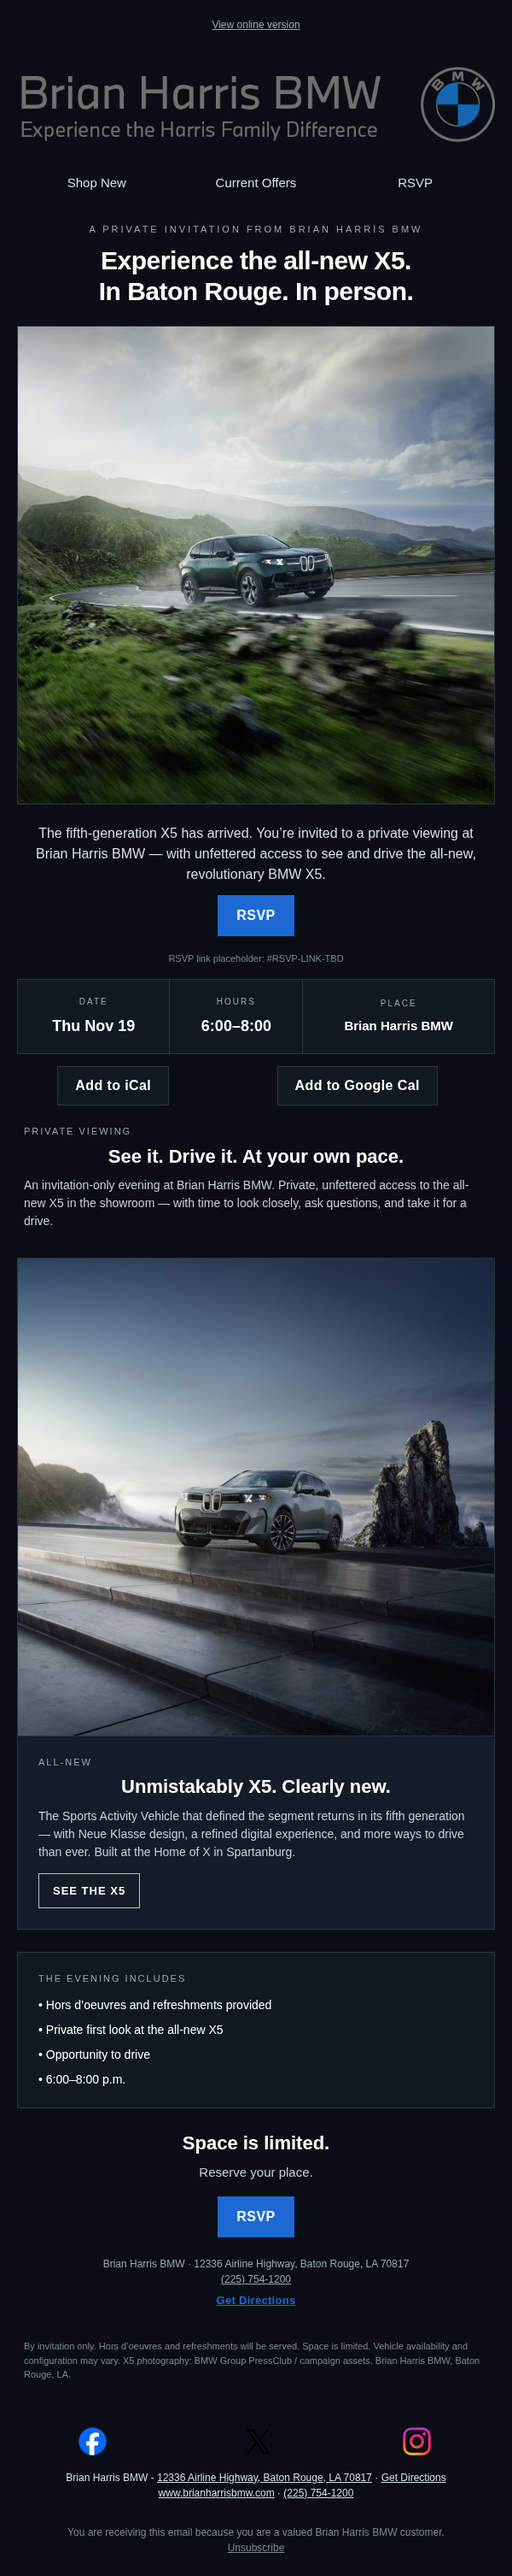
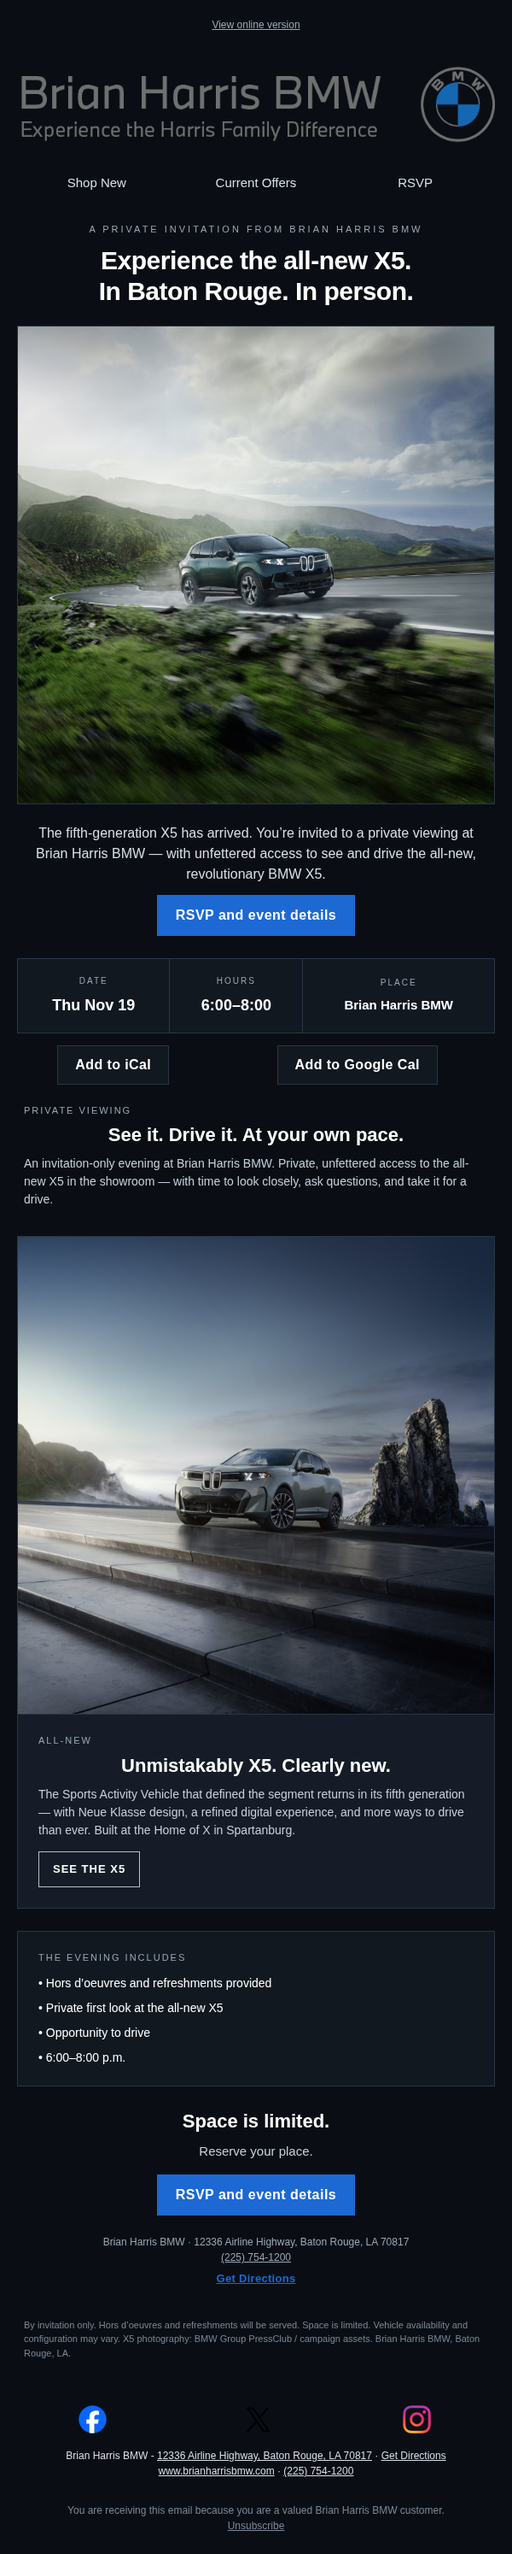
BHBMW: wire X5 private event invite into email + Issue 03
Point invite CTAs at brianharrisbmw.com/x5-private-event (pending
Web ship). Add private-event blocks to Nov sales email and Ultimate
Driver Issue 03. Offers/disclaimers unchanged. BMWJ untouched.

diff --git a/emails/november-2026/bh-bmw-x5-private-showing-invite.html b/emails/november-2026/bh-bmw-x5-private-showing-invite.html
@@ -83,8 +83,8 @@ span.MsoHyperlink, span.MsoHyperlinkFollowed { color:inherit; mso-style-priority
 <a target="_blank" href="https://brianharrisbmw.com/new-bmw-specials2" style="mso-line-height-rule:exactly;text-decoration:none;font-family:helvetica, 'helvetica neue', arial, verdana, sans-serif;display:block;color:#d7dee8;font-size:15px;">Current Offers</a>
 </td>
 <td align="center" valign="top" width="33.33%" style="Margin:0;border:0;padding:12px 5px;">
-<!-- PLACEHOLDER: replace #RSVP-LINK-TBD when Lance builds the RSVP form on brianharrisbmw.com -->
-<a target="_blank" href="#RSVP-LINK-TBD" style="mso-line-height-rule:exactly;text-decoration:none;font-family:helvetica, 'helvetica neue', arial, verdana, sans-serif;display:block;color:#d7dee8;font-size:15px;">RSVP</a>
+<!-- PENDING: event page URL awaiting Web confirm. Live host brianharrisbmw.com; path /x5-private-event currently 404 until Web ships. -->
+<a target="_blank" href="https://brianharrisbmw.com/x5-private-event?utm_source=email&utm_medium=email&utm_campaign=x5-private-event-nov-2026&utm_content=invite" style="mso-line-height-rule:exactly;text-decoration:none;font-family:helvetica, 'helvetica neue', arial, verdana, sans-serif;display:block;color:#d7dee8;font-size:15px;">RSVP</a>
 </td>
 </tr>
 </table>
@@ -128,13 +128,10 @@ span.MsoHyperlink, span.MsoHyperlinkFollowed { color:inherit; mso-style-priority
 <p style="Margin:0;font-family:Arial, 'Helvetica Neue', Helvetica, sans-serif;line-height:24px;letter-spacing:0;color:#d7dee8;font-size:16px;text-align:center;">The fifth-generation X5 has arrived. You&rsquo;re invited to a private viewing at Brian Harris BMW &mdash; with unfettered access to see and drive the all-new, revolutionary BMW X5.</p>
 </td></tr>
 <tr><td align="center" style="padding:0 0 18px;Margin:0;">
-<!-- PLACEHOLDER RSVP URL: #RSVP-LINK-TBD — replace when the form is live on the dealer site -->
+<!-- PENDING URL: brianharrisbmw.com/x5-private-event until Web confirms final path. -->
 <span class="es-button-border" style="border-style:solid;border-color:#1c69d4;background:#1c69d4;border-width:2px;display:inline-block;border-radius:0;width:auto;">
-<a href="#RSVP-LINK-TBD" target="_blank" class="es-button" style="mso-style-priority:100 !important;text-decoration:none !important;mso-line-height-rule:exactly;color:#FFFFFF;font-size:17px;padding:12px 28px;display:inline-block;background:#1c69d4;border-radius:0;font-family:Arial, 'Helvetica Neue', Helvetica, sans-serif;font-weight:bold;line-height:22px;width:auto;text-align:center;letter-spacing:0.5px;">RSVP</a>
+<a href="https://brianharrisbmw.com/x5-private-event?utm_source=email&utm_medium=email&utm_campaign=x5-private-event-nov-2026&utm_content=invite" target="_blank" class="es-button" style="mso-style-priority:100 !important;text-decoration:none !important;mso-line-height-rule:exactly;color:#FFFFFF;font-size:17px;padding:12px 28px;display:inline-block;background:#1c69d4;border-radius:0;font-family:Arial, 'Helvetica Neue', Helvetica, sans-serif;font-weight:bold;line-height:22px;width:auto;text-align:center;letter-spacing:0.5px;">RSVP and event details</a>
 </span>
-</td></tr>
-<tr><td align="center" style="padding:0 0 8px;Margin:0;">
-<p style="Margin:0;font-family:Arial, 'Helvetica Neue', Helvetica, sans-serif;line-height:16px;color:#7a8696;font-size:11px;text-align:center;">RSVP link placeholder: #RSVP-LINK-TBD</p>
 </td></tr>
 </table>
 </td></tr>
@@ -231,7 +228,7 @@ span.MsoHyperlink, span.MsoHyperlinkFollowed { color:inherit; mso-style-priority
 </td></tr>
 <tr><td align="center" style="padding:0 0 8px;Margin:0;">
 <span class="es-button-border" style="border-style:solid;border-color:#1c69d4;background:#1c69d4;border-width:2px;display:inline-block;border-radius:0;width:auto;">
-<a href="#RSVP-LINK-TBD" target="_blank" class="es-button" style="mso-style-priority:100 !important;text-decoration:none !important;color:#FFFFFF;font-size:17px;padding:12px 28px;display:inline-block;background:#1c69d4;border-radius:0;font-family:Arial, 'Helvetica Neue', Helvetica, sans-serif;font-weight:bold;line-height:22px;width:auto;text-align:center;letter-spacing:0.5px;">RSVP</a>
+<a href="https://brianharrisbmw.com/x5-private-event?utm_source=email&utm_medium=email&utm_campaign=x5-private-event-nov-2026&utm_content=invite" target="_blank" class="es-button" style="mso-style-priority:100 !important;text-decoration:none !important;color:#FFFFFF;font-size:17px;padding:12px 28px;display:inline-block;background:#1c69d4;border-radius:0;font-family:Arial, 'Helvetica Neue', Helvetica, sans-serif;font-weight:bold;line-height:22px;width:auto;text-align:center;letter-spacing:0.5px;">RSVP and event details</a>
 </span>
 </td></tr>
 <tr><td align="center" style="padding:14px 0 6px;Margin:0;">
@@ -301,4 +298,4 @@ span.MsoHyperlink, span.MsoHyperlinkFollowed { color:inherit; mso-style-priority
 </div>
 </body>
 </html>
-<!-- BHBMW X5 private showing invite · Thu Nov 19 2026 6-8pm CT · draft · RSVP #RSVP-LINK-TBD · no alcohol · do not name caterer -->
+<!-- BHBMW X5 private showing invite · Thu Nov 19 2026 6-8pm CT · draft · RSVP → brianharrisbmw.com/x5-private-event (PENDING Web confirm) · no alcohol · do not name caterer -->

diff --git a/emails/november-2026/bh-bmw-november-2026-sales-email.html b/emails/november-2026/bh-bmw-november-2026-sales-email.html
@@ -112,6 +112,27 @@ span.MsoHyperlink, span.MsoHyperlinkFollowed { color:inherit; mso-style-priority
 <tr><td style="padding:4px 0;Margin:0;border-bottom:1px solid #cccccc;height:0px;width:100%"></td></tr>
 </table></td></tr>
 
+
+<!-- PRIVATE EVENT INVITE · PENDING URL until Web confirms brianharrisbmw.com/x5-private-event -->
+<tr><td align="left" style="Margin:0;padding:8px 20px 8px">
+<table cellpadding="0" cellspacing="0" width="100%" role="presentation" style="mso-table-lspace:0pt;mso-table-rspace:0pt;border-collapse:collapse;border-spacing:0px;background-color:#0a0e14;border:1px solid #2a3545">
+<tr><td align="center" style="padding:22px 24px 8px;Margin:0">
+<p style="Margin:0;font-family:arial, 'helvetica neue', helvetica, sans-serif;line-height:16px;letter-spacing:2px;color:#9aa6b5;font-size:11px;text-transform:uppercase">Private Event · Thursday, November 19</p>
+</td></tr>
+<tr><td align="center" style="padding:4px 24px 10px;Margin:0">
+<h2 style="Margin:0;font-family:arial, 'helvetica neue', helvetica, sans-serif;font-size:26px;font-weight:bold;line-height:32px;color:#FFFFFF;text-align:center">The all-new X5. A private evening.</h2>
+</td></tr>
+<tr><td align="center" style="padding:0 28px 16px;Margin:0">
+<p style="Margin:0;font-family:arial, 'helvetica neue', helvetica, sans-serif;line-height:22px;color:#d7dee8;font-size:15px;text-align:center">6:00&ndash;8:00 p.m. at Brian Harris BMW. Private access to see and drive the all-new X5. Hors d&rsquo;oeuvres and refreshments provided.</p>
+</td></tr>
+<tr><td align="center" style="padding:0 24px 24px;Margin:0">
+<span class="es-button-border" style="border-style:solid;border-color:#1c69d4;background:#1c69d4;border-width:0;display:inline-block;border-radius:5px;width:auto">
+<a href="https://brianharrisbmw.com/x5-private-event?utm_source=newsletter&utm_medium=email&utm_campaign=nov-2026-sales&utm_content=x5-private-event" target="_blank" class="es-button" style="mso-style-priority:100 !important;text-decoration:none !important;color:#FFFFFF;font-size:16px;padding:10px 24px;display:inline-block;background:#1c69d4;border-radius:5px;font-family:arial, 'helvetica neue', helvetica, sans-serif;line-height:20px;width:auto;text-align:center">RSVP and event details</a>
+</span>
+</td></tr>
+</table>
+</td></tr>
+
 <!-- FEATURED OFFERS: X5 / X3 / X7 -->
 <tr><td align="center" style="Margin:0;padding:8px 20px 4px">
 <p style="Margin:0;font-family:arial, 'helvetica neue', helvetica, sans-serif;line-height:16px;letter-spacing:2px;color:#999999;font-size:11px;text-transform:uppercase">Featured November Offers</p>
@@ -283,4 +304,4 @@ span.MsoHyperlink, span.MsoHyperlinkFollowed { color:inherit; mso-style-priority
 <img data-coop="open-pixel" src="https://coop-email-open.thecoopbrla.workers.dev/o.gif?c=nov-2026-sales&amp;s=bhbmw&amp;pub=sales&amp;i=nov-2026-sales&amp;k=email" width="1" height="1" alt="" style="display:block;width:1px;height:1px;border:0;" />
 </body>
 </html>
-<!-- v2 - November 2026 sales offers: Road Home hero (live page copy) + featured X5/X3/X7 offers + Drive to End Hunger (MACO copy) + Ultimate Driver Issue 03 teaser; offers and disclaimers verbatim from live brianharrisbmw.com/new-bmw-specials pages (fetched 2026-11-09) -->
+<!-- v3 - Nov 2026 sales + X5 private event invite (PENDING brianharrisbmw.com/x5-private-event) +  Road Home hero (live page copy) + featured X5/X3/X7 offers + Drive to End Hunger (MACO copy) + Ultimate Driver Issue 03 teaser; offers and disclaimers verbatim from live brianharrisbmw.com/new-bmw-specials pages (fetched 2026-11-09) -->

diff --git a/Brian Harris BMW/bhbmw-news-issue-03-november-2026.html b/Brian Harris BMW/bhbmw-news-issue-03-november-2026.html
@@ -387,7 +387,53 @@
     .sheet .cal .cal-btn { text-decoration: none; }
     #cup .kicker, section#cup .kicker { letter-spacing: .18em; }
 
-</style>
+
+    /* X5 private event invite — PENDING brianharrisbmw.com/x5-private-event until Web confirms */
+    .event-invite {
+      margin: 28px 0 8px;
+      background: #0a0e14;
+      color: #fff;
+      border: 1px solid #2a3545;
+      padding: 28px 28px 26px;
+    }
+    .event-invite .kicker {
+      margin: 0 0 10px;
+      color: #9aa6b5 !important;
+      font-size: 11px;
+      letter-spacing: .18em;
+      text-transform: uppercase;
+      font-weight: 700;
+    }
+    .event-invite h2 {
+      margin: 0 0 12px;
+      color: #fff !important;
+      font-size: clamp(1.55rem, 3.6vw, 2.1rem);
+      line-height: 1.1;
+      letter-spacing: -.03em;
+    }
+    .event-invite p {
+      margin: 0 0 18px;
+      color: #d7dee8 !important;
+      font-size: 15px;
+      line-height: 1.55;
+      max-width: 36em;
+    }
+    .event-invite .cta {
+      display: inline-flex;
+      align-items: center;
+      justify-content: center;
+      min-height: 44px;
+      padding: 10px 18px;
+      background: #1c69d4 !important;
+      color: #fff !important;
+      border: 2px solid #1c69d4;
+      text-decoration: none !important;
+      font-weight: 700;
+      font-size: 14px;
+      letter-spacing: .02em;
+    }
+
+  </style>
 </head>
 
 <body>
@@ -444,6 +490,7 @@
     </div>
     <nav class="toc" aria-label="In this issue">
       <a href="#x5">The All-New X5</a>
+      <a href="#x5-private-event">Private X5 Evening</a>
       <a href="#lot">On the Lot</a>
       <a href="#certified">BMW Certified</a>
       <a href="#deduct">Drive Luxury.</a>
@@ -457,6 +504,16 @@
       <a href="#workbench">On the Workbench</a>
     </nav>
     <p class="open">November is when Baton Rouge, Louisiana, finally gets mornings worth driving in — sweater at seven, gone by noon. Alabama comes to Tiger Stadium in daylight for the first time since 2010. There's an electric X with an M60 badge and 603 horsepower, oxtail on Westfork worth crossing town for, and a wedge-shaped M1 that started all of this. Get in. Go.</p>
+
+    <!-- PRIVATE EVENT INVITE · PENDING URL until Web confirms brianharrisbmw.com/x5-private-event -->
+    <aside class="event-invite" id="x5-private-event" aria-label="Private X5 event invitation">
+      <p class="kicker">Private Event · Thursday, November 19 · 6–8 p.m.</p>
+      <h2>The all-new X5. A private evening.</h2>
+      <p>Join us at Brian Harris BMW for private access to see and drive the all-new X5. Hors d&rsquo;oeuvres and refreshments provided.</p>
+      <a class="cta" href="https://brianharrisbmw.com/x5-private-event?utm_source=ultimate-driver&utm_medium=site&utm_campaign=ultimate-driver-issue-03&utm_content=x5-private-event">RSVP and event details</a>
+    </aside>
+
+
 
     <section class="sec" id="x5">
       <div class="cover-shot">

diff --git a/creative-review.html b/creative-review.html
@@ -587,7 +587,7 @@
         <div class="card-top">
           <div>
             <h3>X5 Private Showing Invite · Nov 19</h3>
-            <p class="meta">Event invite · Thu Nov 19, 6–8 PM · RSVP placeholder</p>
+            <p class="meta">Event invite · Thu Nov 19, 6–8 PM · links to /x5-private-event (pending Web)</p>
           </div>
           <div class="tags"><span class="tag t-Sales">Sales</span><span class="status">Draft</span></div>
         </div>
@@ -616,7 +616,7 @@
         <div class="card-top">
           <div>
             <h3>November 2026 Sales Offers Email</h3>
-            <p class="meta">Road Home · X5 / X3 / X7 offers · Drive to End Hunger · Ultimate Driver Issue 03 teaser</p>
+            <p class="meta">Road Home · X5 private event Nov 19 · X5 / X3 / X7 offers · Drive to End Hunger · Issue 03 teaser</p>
           </div>
           <div class="tags"><span class="tag t-Sales">Sales</span><span class="status">Review</span></div>
         </div>
@@ -1909,7 +1909,7 @@
         <div class="card-top">
           <div>
             <h3>Issue 03 — November 2026 (draft)</h3>
-            <p class="meta">Sept/Oct format restored · proofed · review</p>
+            <p class="meta">Sept/Oct format · X5 private event invite · proofed · review</p>
           </div>
           <div class="tags"><span class="tag t-Issue">Issue</span><span class="tag t-Magazine">Magazine</span></div>
         </div>
